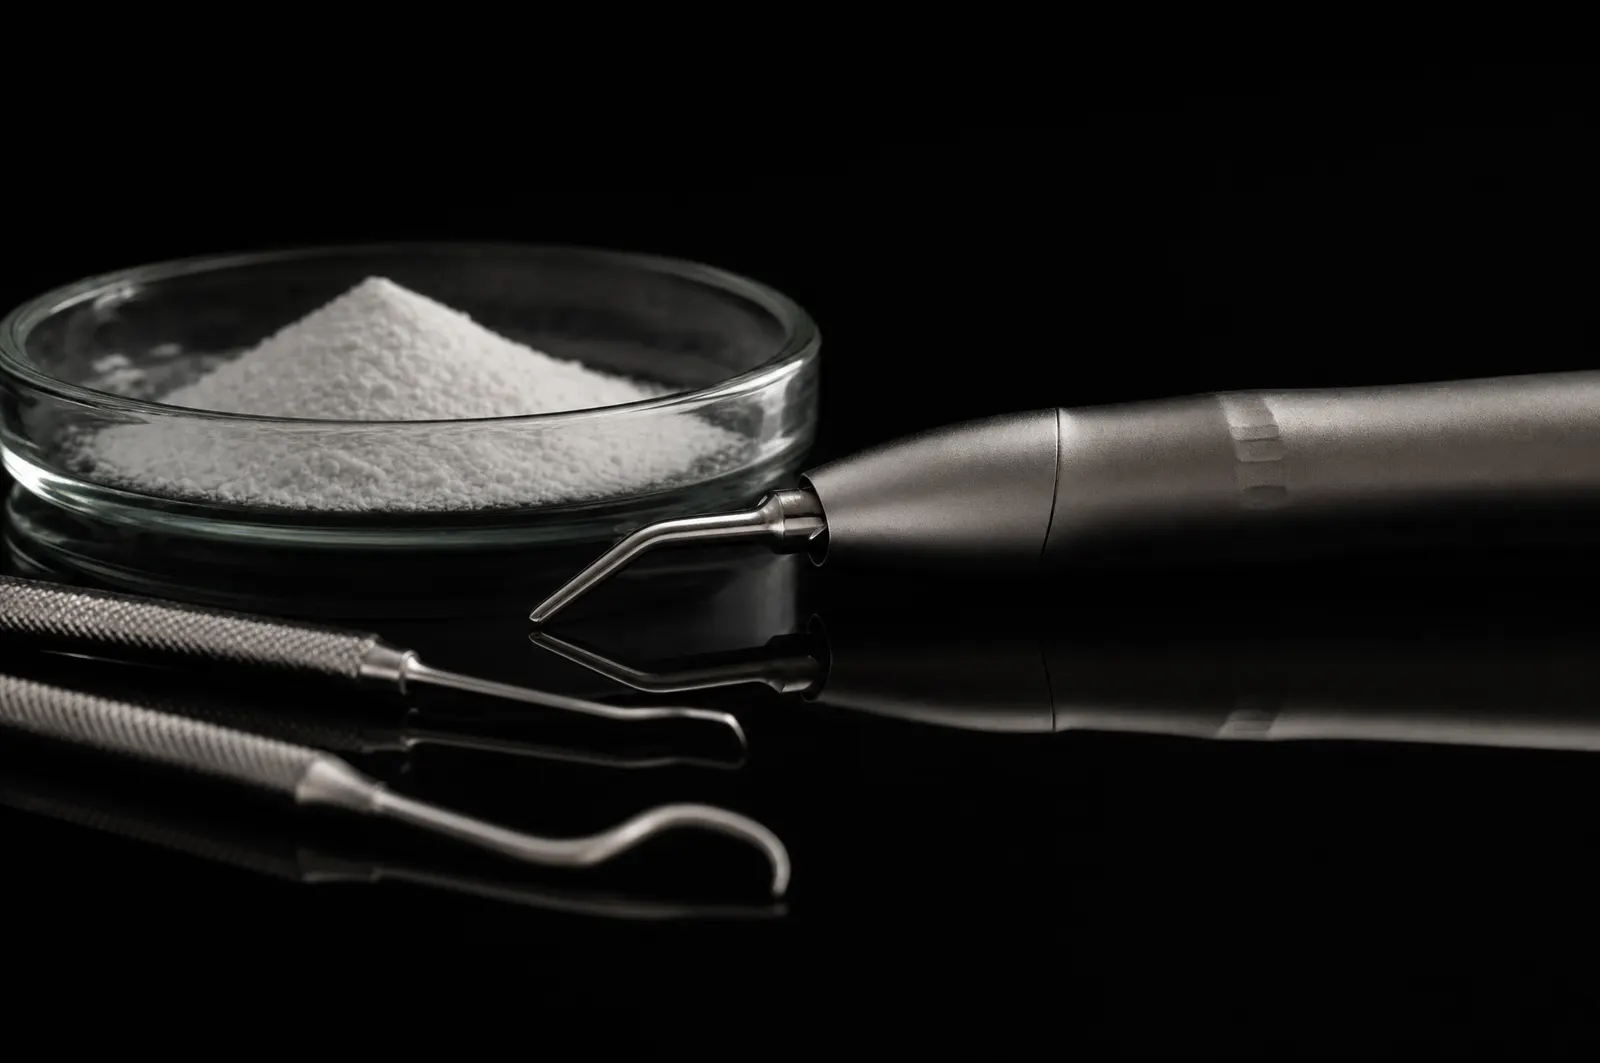
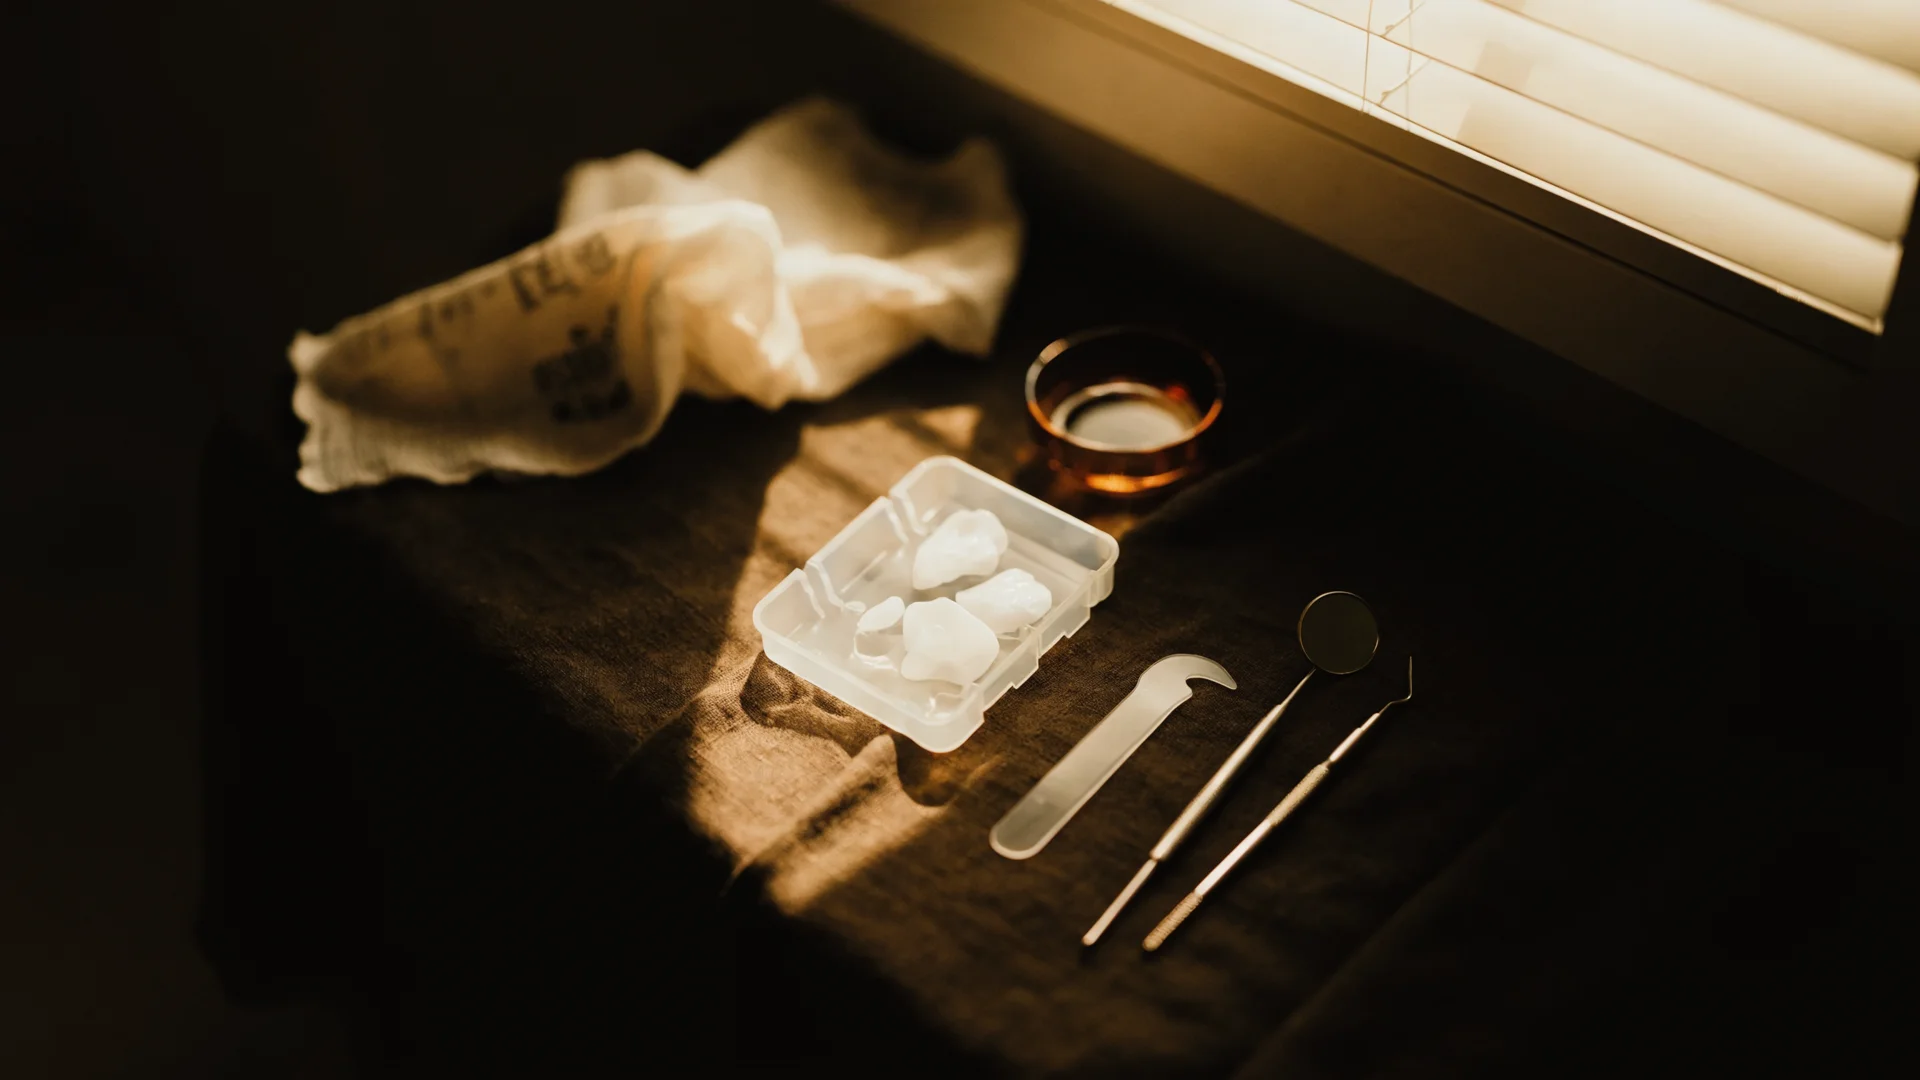
feat(treatments): Higgsfield 블랙필름 시네마틱 영상 3종 교체
- recraft_v4_1 2k 포스터 3종 (Masterpiece/LONG PLANT/Life Care)
- seedance_2_0 noir 1080p 5s 영상 3종
- treatments/index.html 포스터 상대경로 절대경로 버그 수정

diff --git a/treatments/index.html b/treatments/index.html
@@ -168,7 +168,7 @@
         </div>
         <div class="svc-domains" data-stagger>
           <article class="svc-domain">
-            <div class="svc-domain__media"><video poster="assets/img/sv-veneer.webp" muted loop playsinline preload="none" data-autovideo aria-hidden="true"><source src="/video/sv-veneer.av1.mp4" type='video/mp4; codecs="av01.0.08M.08"'><source src="/video/sv-veneer.mp4" type="video/mp4"></video></div>
+            <div class="svc-domain__media"><video poster="/assets/img/sv-veneer.webp" muted loop playsinline preload="none" data-autovideo aria-hidden="true"><source src="/video/sv-veneer.av1.mp4" type='video/mp4; codecs="av01.0.08M.08"'><source src="/video/sv-veneer.mp4" type="video/mp4"></video></div>
             <div class="svc-domain__body">
               <p class="svc-domain__name">Masterpiece</p>
               <h3 class="svc-domain__theme" data-i18n="svc.d2.theme">기능과 아름다움을 함께 복원</h3>
@@ -182,7 +182,7 @@
             </div>
           </article>
           <article class="svc-domain">
-            <div class="svc-domain__media"><video poster="assets/img/sv-implant.webp" muted loop playsinline preload="none" data-autovideo aria-hidden="true"><source src="/video/sv-implant.av1.mp4" type='video/mp4; codecs="av01.0.08M.08"'><source src="/video/sv-implant.mp4" type="video/mp4"></video></div>
+            <div class="svc-domain__media"><video poster="/assets/img/sv-implant.webp" muted loop playsinline preload="none" data-autovideo aria-hidden="true"><source src="/video/sv-implant.av1.mp4" type='video/mp4; codecs="av01.0.08M.08"'><source src="/video/sv-implant.mp4" type="video/mp4"></video></div>
             <div class="svc-domain__body">
               <p class="svc-domain__name">L~ONG PLANT</p>
               <h3 class="svc-domain__theme" data-i18n="svc.d1.theme">수명을 생각하는 임플란트</h3>
@@ -205,7 +205,7 @@
             </div>
           </article>
           <article class="svc-domain">
-            <div class="svc-domain__media"><video poster="assets/img/sv-prevent.webp" muted loop playsinline preload="none" data-autovideo aria-hidden="true"><source src="/video/sv-prevent.av1.mp4" type='video/mp4; codecs="av01.0.08M.08"'><source src="/video/sv-prevent.mp4" type="video/mp4"></video></div>
+            <div class="svc-domain__media"><video poster="/assets/img/sv-prevent.webp" muted loop playsinline preload="none" data-autovideo aria-hidden="true"><source src="/video/sv-prevent.av1.mp4" type='video/mp4; codecs="av01.0.08M.08"'><source src="/video/sv-prevent.mp4" type="video/mp4"></video></div>
             <div class="svc-domain__body">
               <p class="svc-domain__name">Life Care</p>
               <h3 class="svc-domain__theme" data-i18n="svc.d3.theme">작은 디테일이 만드는 오래가는 안심</h3>